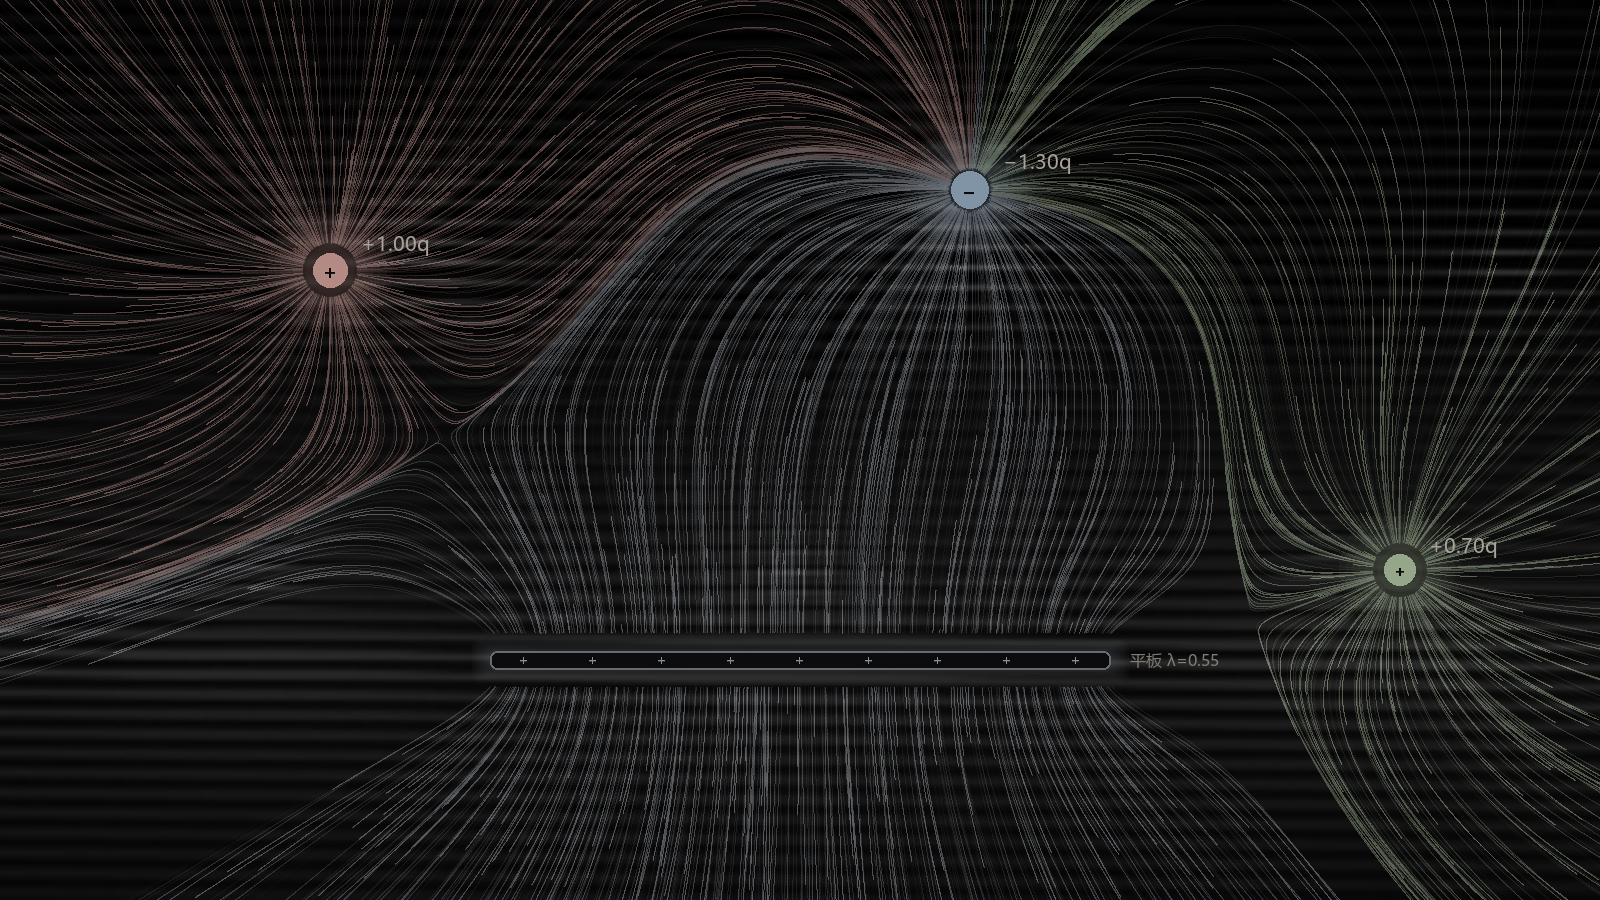
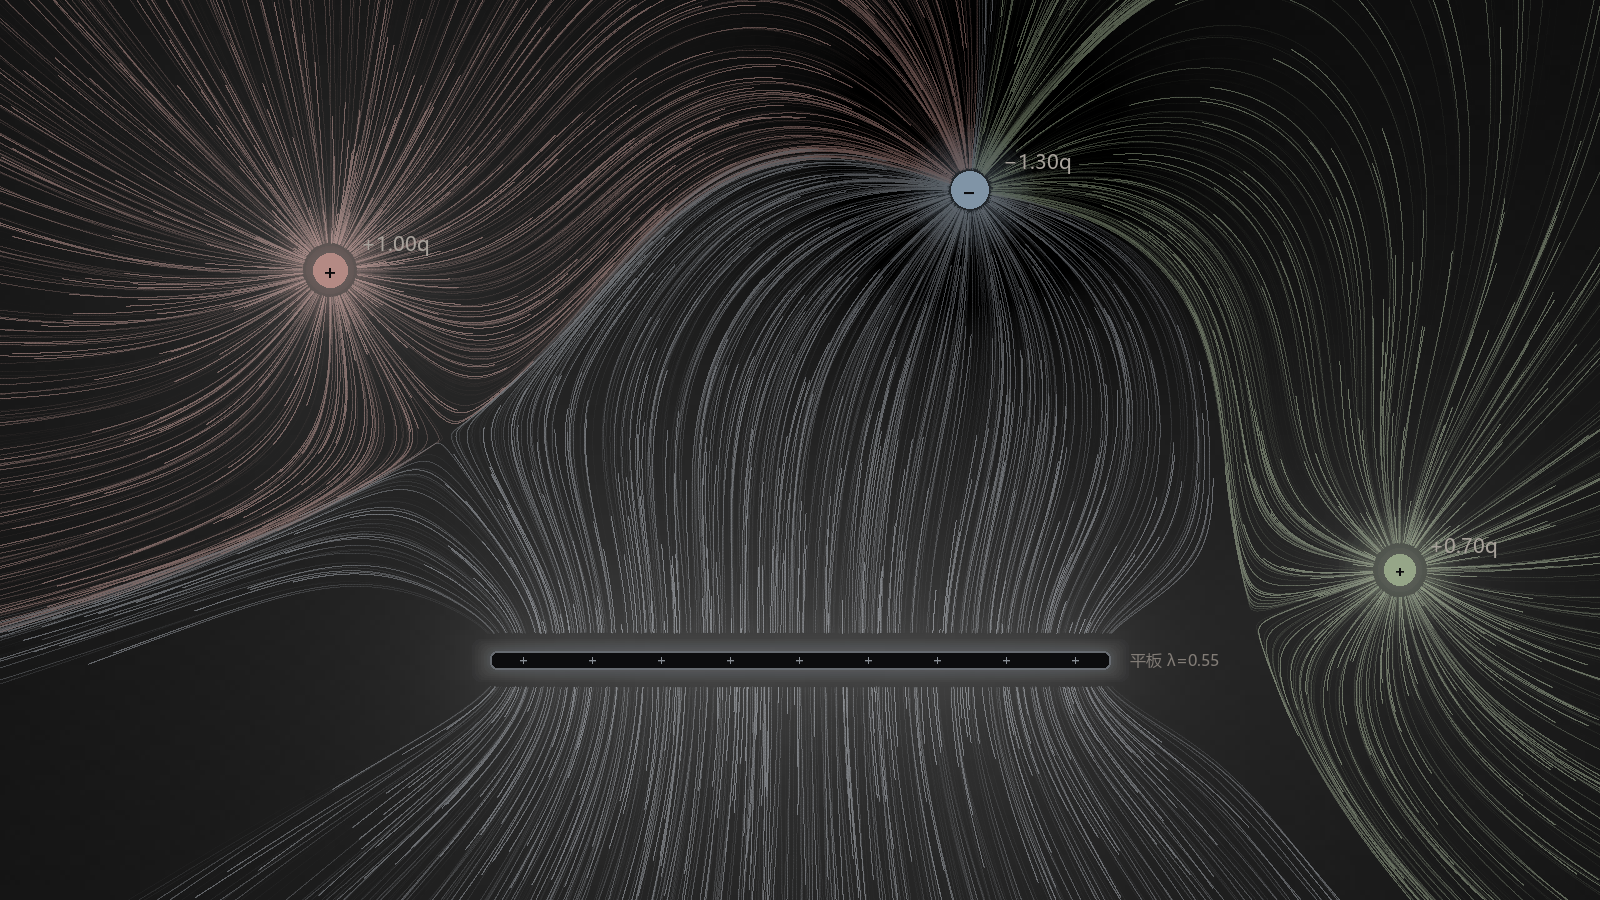
电势底色改为对数映射，并消除极板边的分界线
- 亮度映射从 V/(V+V0) 的平方改为 log(1+V/V0)/log(1+Vref/V0)，长尾压平、过渡更缓
- POT_MAX 60 → 80，最高亮度更亮
- 近距离项改用 sqrt(r^2+eps^2) 代替 max(r,eps)：原来在 eps 处有折角，
  会在极板四周留下一圈明显的分界线
- 网格 240x135 → 320x180
- 修掉 tools/preview_flow.py 里电势块的 bug：旧的尺寸推断分支把一维数组
  当图片用，预览图里的横向条带就是它造成的
- 版本 v0.0.20

Changed region(s): [[0.0312, 0.0311, 0.9375, 1.0], [0.5625, 0.2489, 0.6562, 0.3422]]

diff --git a/index.html b/index.html
@@ -242,7 +242,7 @@
 </aside>
 
 <!-- 版本号：只在这里改 -->
-<div id="ver">v0.0.19</div>
+<div id="ver">v0.0.20</div>
 
 <script>
 /* =====================================================================
@@ -365,9 +365,10 @@ const INFALL = 0.25;            // 从画布边缘「自无穷远」流入的比
 const V_MIN = 0.3, V_MAX = 8;   // 速度映射到亮度/线宽的区间（px/帧）
 
 /* 电势底色。声明必须放在 rebuildSources 之前——它在顶层就会被调用 */
-const POT_W = 240, POT_H = 135; // 低分辨率网格，放大插值变平滑
-const POT_MAX = 60;             // 最大加亮量（0~255），越小底色越含蓄
-const POT_V0 = 1.2;             // 半饱和值：V 等于它时映射到 0.5
+const POT_W = 320, POT_H = 180; // 低分辨率网格，放大插值变平滑
+const POT_MAX = 80;             // 最大加亮量（0~255）
+const POT_V0 = 0.6;             // 对数尺度：小 → 低电势区层次多；大 → 只剩近处亮
+const POT_REF = 6;              // 归一化参考电势，超过它就顶格
 
 let potImg = null;
 let potDirty = true;
@@ -884,7 +885,8 @@ function potentialAt(px, py) {
     if (!c.q) continue;
     const dx = x - c.x / R0;
     const dy = y - c.y / R0;
-    v += c.q / Math.max(Math.hypot(dx, dy), 0.12);
+    // 软截断：用 √(r²+ε²) 代替 max(r, ε)，避免在 ε 处留下折角
+    v += c.q / Math.sqrt(dx * dx + dy * dy + 0.0144);
   }
 
   for (let i = 0; i < PLATES.length; i++) {
@@ -892,7 +894,8 @@ function potentialAt(px, py) {
     if (!pl.lambda) continue;
     const L = pl.len / R0 / 2;
     const xr = x - pl.x / R0;
-    const yy = Math.max(Math.abs(y - pl.y / R0), 0.06);
+    const dy = y - pl.y / R0;
+    const yy = Math.sqrt(dy * dy + 0.0004);   // 同样软截断，消除板边的分界线
     // ∫ dx'/√((x-x')²+y²) = asinh
     v += pl.lambda * (Math.asinh((xr + L) / yy) - Math.asinh((xr - L) / yy));
   }
@@ -900,11 +903,11 @@ function potentialAt(px, py) {
   return v;
 }
 
-/* 电势 → 亮度：先做饱和映射，再平方压暗远处，避免整屏发灰 */
+/* 电势 → 亮度：取对数把 1/r 的长尾压平，远处也能分出层次 */
 function potBrightness(v) {
   if (!(v > 0)) return 0;
-  const t = v / (v + POT_V0);
-  return t * t * POT_MAX;
+  const t = Math.log1p(v / POT_V0) / Math.log1p(POT_REF / POT_V0);
+  return Math.min(1, t) * POT_MAX;
 }
 
 function updatePotential() {

diff --git a/tools/preview_flow.py b/tools/preview_flow.py
@@ -11,7 +11,7 @@ import json
 import os
 
 import numpy as np
-from PIL import Image, ImageDraw, ImageFont
+from PIL import Image, ImageDraw, ImageFilter, ImageFont
 
 HERE = os.path.dirname(os.path.abspath(__file__))
 ROOT = os.path.dirname(HERE)
@@ -72,18 +72,13 @@ img = Image.fromarray(img, "RGB").resize((W, H), Image.BICUBIC)
 
 # ---------------------------------------------------------------- 电势底色（加亮）
 pot_path = os.path.join(HERE, "pot.bin")
-if os.path.exists(pot_path):
-    pot = np.fromfile(pot_path, dtype=np.uint8)
-    if pot.size:
-        # 尺寸从字节数反推，避免和页面里的常量写两遍
-        side = int(round((pot.size) ** 0.5))
-        ph = int(round(pot.size / 160)) if pot.size % 160 == 0 else side
-        pw = pot.size // ph if ph else side
-        if pw * ph == pot.size:
-            pim = Image.fromarray(pot.reshape(ph, pw), "L").resize((W, H), Image.BICUBIC)
-            base = np.asarray(img, np.int16)
-            add = np.asarray(pim, np.int16)[:, :, None]
-            img = Image.fromarray(np.clip(base + add, 0, 255).astype(np.uint8), "RGB")
+PW, PH = scene.get("potW"), scene.get("potH")
+if os.path.exists(pot_path) and PW and PH:
+    pot = np.fromfile(pot_path, dtype=np.uint8).reshape(PH, PW)
+    layer = Image.fromarray(pot, "L").resize((W, H), Image.BILINEAR)
+    base = np.asarray(img, np.int16)
+    add = np.asarray(layer, np.int16)[:, :, None]
+    img = Image.fromarray(np.clip(base + add, 0, 255).astype(np.uint8), "RGB")
 
 # ---------------------------------------------------------------- 静态元素
 d = ImageDraw.Draw(img, "RGBA")

diff --git a/README.md b/README.md
@@ -232,19 +232,26 @@ p.x += v;
 
 `asinh` 那项是 `∫ dx'/√((x−x')²+y²)` 的解析解，和场强用的公式同源。
 
-三个工程细节：
+四个工程细节：
 
-- **饱和映射**。电势在电荷处 1/r 发散、跨度几个数量级，线性的亮度映射会让除电荷附近
-  以外全是黑的。所以用 `V/(V+V₀)` 压成 0~1，再平方一次把远处压到接近黑。
+- **对数映射**。电势在电荷处 1/r 发散、跨度几个数量级，线性映射会让除电荷附近以外
+  全黑，而且近处变化过陡、会出现明显的等值线环。改用
+  `t = log(1 + V/V₀) / log(1 + V_ref/V₀)`，把长尾压平，过渡也平缓。
+- **软截断**。近距离项用 `√(r²+ε²)` 而不是 `max(r, ε)`——后者会在 ε 处留下折角，
+  在极板四周形成一圈看得见的分界线。
 - **只能加亮**。黑色底上没有「更暗」的余地，所以负电势直接映射到 0——负电荷周围是
   一块暗区，正好和「电势低」的直觉一致。
 - **加法混合**。场线模式的累积层是不透明的，底色不能画在它下面，只能
   `blendMode(ADD)` 叠在上面；轨迹模式每帧清屏，直接正常绘制即可。
 
-电势图算在 240×135 的低分辨率网格上（放大插值后足够平滑），并且加了半个色阶的抖动，
-否则 8 位量化会在平缓区域留下等高线一样的条带。只在场景变化时重算（`potDirty`）。
+电势图算在 320×180 的网格上（放大插值后足够平滑），带半色阶抖动，只在场景变化时
+重算（`potDirty`）。
 
-可调参数：`POT_MAX`（最大加亮量，默认 60）、`POT_V0`（半饱和值，默认 1.2）。
+可调参数：`POT_MAX`（最大加亮量，默认 80）、`POT_V0`（对数尺度，默认 0.6）、
+`POT_REF`（归一化参考电势，默认 6）。
+
+> 注意：电势是**对数**衰减的，一块平板加几个电荷在整幅画面里本来就接近均匀，
+> 所以底色看起来是淡淡的一层，而不是强烈的渐变。想要更强对比就调小 `POT_V0`。
 
 ## 目录
 
@@ -291,7 +298,7 @@ const MAX_PLATES  = 6
 
 ## 版本
 
-当前 **v0.0.19**，显示在页面左下角（手机端移到右上角）。版本号只写在 `index.html` 的 `<div id="ver">` 里，
+当前 **v0.0.20**，显示在页面左下角（手机端移到右上角）。版本号只写在 `index.html` 的 `<div id="ver">` 里，
 改一处即可。
 
 | 段位 | 含义 |
